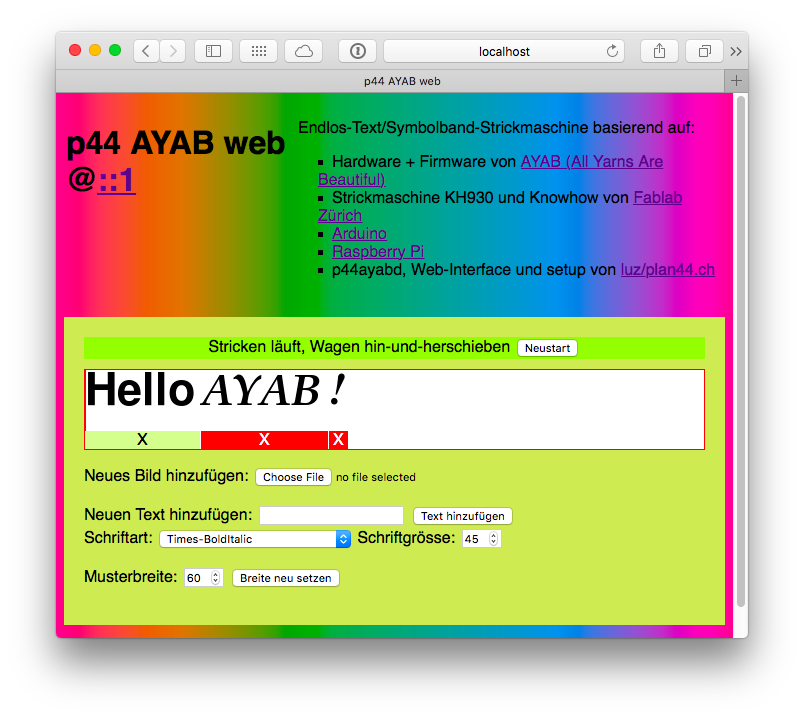
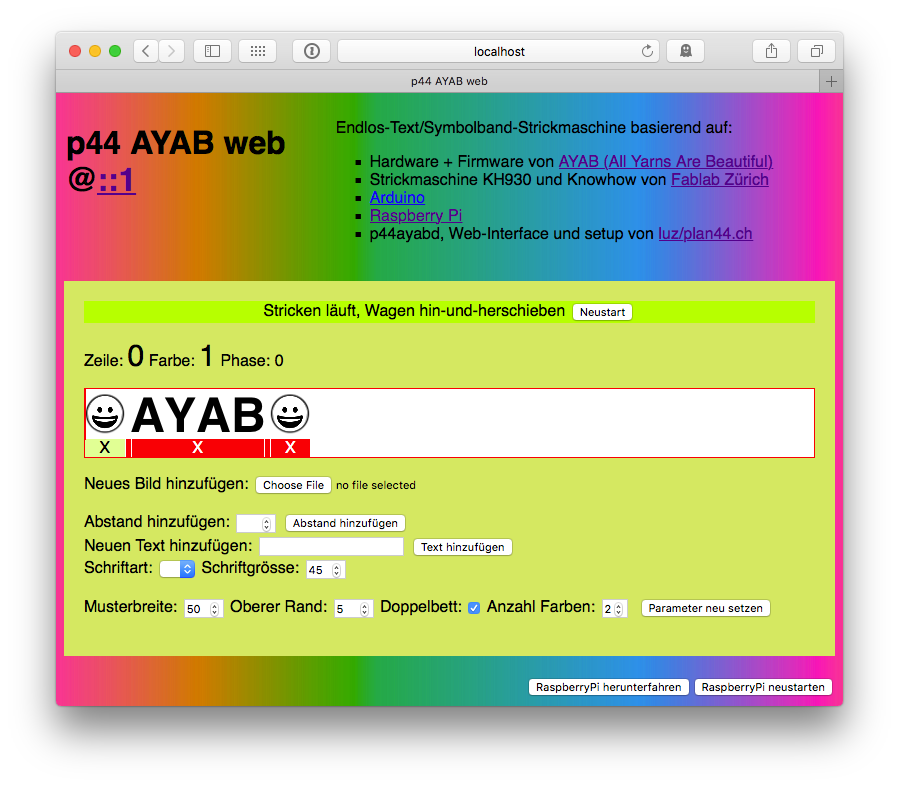
Updated README and github link in Webui

diff --git a/p44ayabweb/index.php b/p44ayabweb/index.php
@@ -508,7 +508,7 @@ function ayabJsonCall($aUri, $aJsonRequest = false, $aAction = false)
               <li>Strickmaschine KH930 und Knowhow von <a href="http://zurich.fablab.ch" target="_blank">Fablab Zürich</a></li>
               <li><a href="http://www.arduino.cc" target="_blank">Arduino</a></li>
               <li><a href="https://www.raspberrypi.org" target="_blank">Raspberry Pi</a></li>
-              <li>p44ayabd, Web-Interface und setup von <a href="" target="_blank">luz/plan44.ch</a></li>
+              <li>p44ayabd, Web-Interface und setup von <a href="https://github.com/plan44/p44ayabd" target="_blank">luz/plan44.ch</a></li>
             </ul>
           </td>
         </tr>

diff --git a/README.md b/README.md
@@ -1,7 +1,7 @@
 # p44ayabd - Text Banner Knitting using AYAB and a RaspberryPi
 
 - original Version 2015
-- updated November 2017
+- updated November 2017 - added ribber (*Doppelbett*, KR830/840) support, added vertical pattern shift, yarn number display, empty space insert option.
 
 ## Goal
 
@@ -176,11 +176,13 @@ It will look like this:
 
 I hope the UI is more or less self-explanatory (even if currently in German only).
 
-You can add text (or images) in segments to the queue, click to re-position the knitting cursor, remove text segments already or not yet knitted, select a font and also restart the AYAB in case something goes wrong.
+You can add text (or images, or empty space) in segments to the queue, click to re-position the knitting cursor, remove text segments already or not yet knitted, select a font and also restart the AYAB in case something goes wrong.
 
-Even if someone trips over the power cord and reboots the Rpi, the queue, pattern width and cursor is preserved and you should be able to continue knitting where you left off.
+When using the ribber with double jaquard pattern, the display of the currently to-be-selected yarn color is helpful.
 
-Happy text banner knitting!
+Even if someone trips over the power cord and reboots the Rpi, the queue and all parameters, as well as the cursor position is preserved and you should be able to continue knitting where you left off.
+
+Happy banner knitting!
 
 
 
